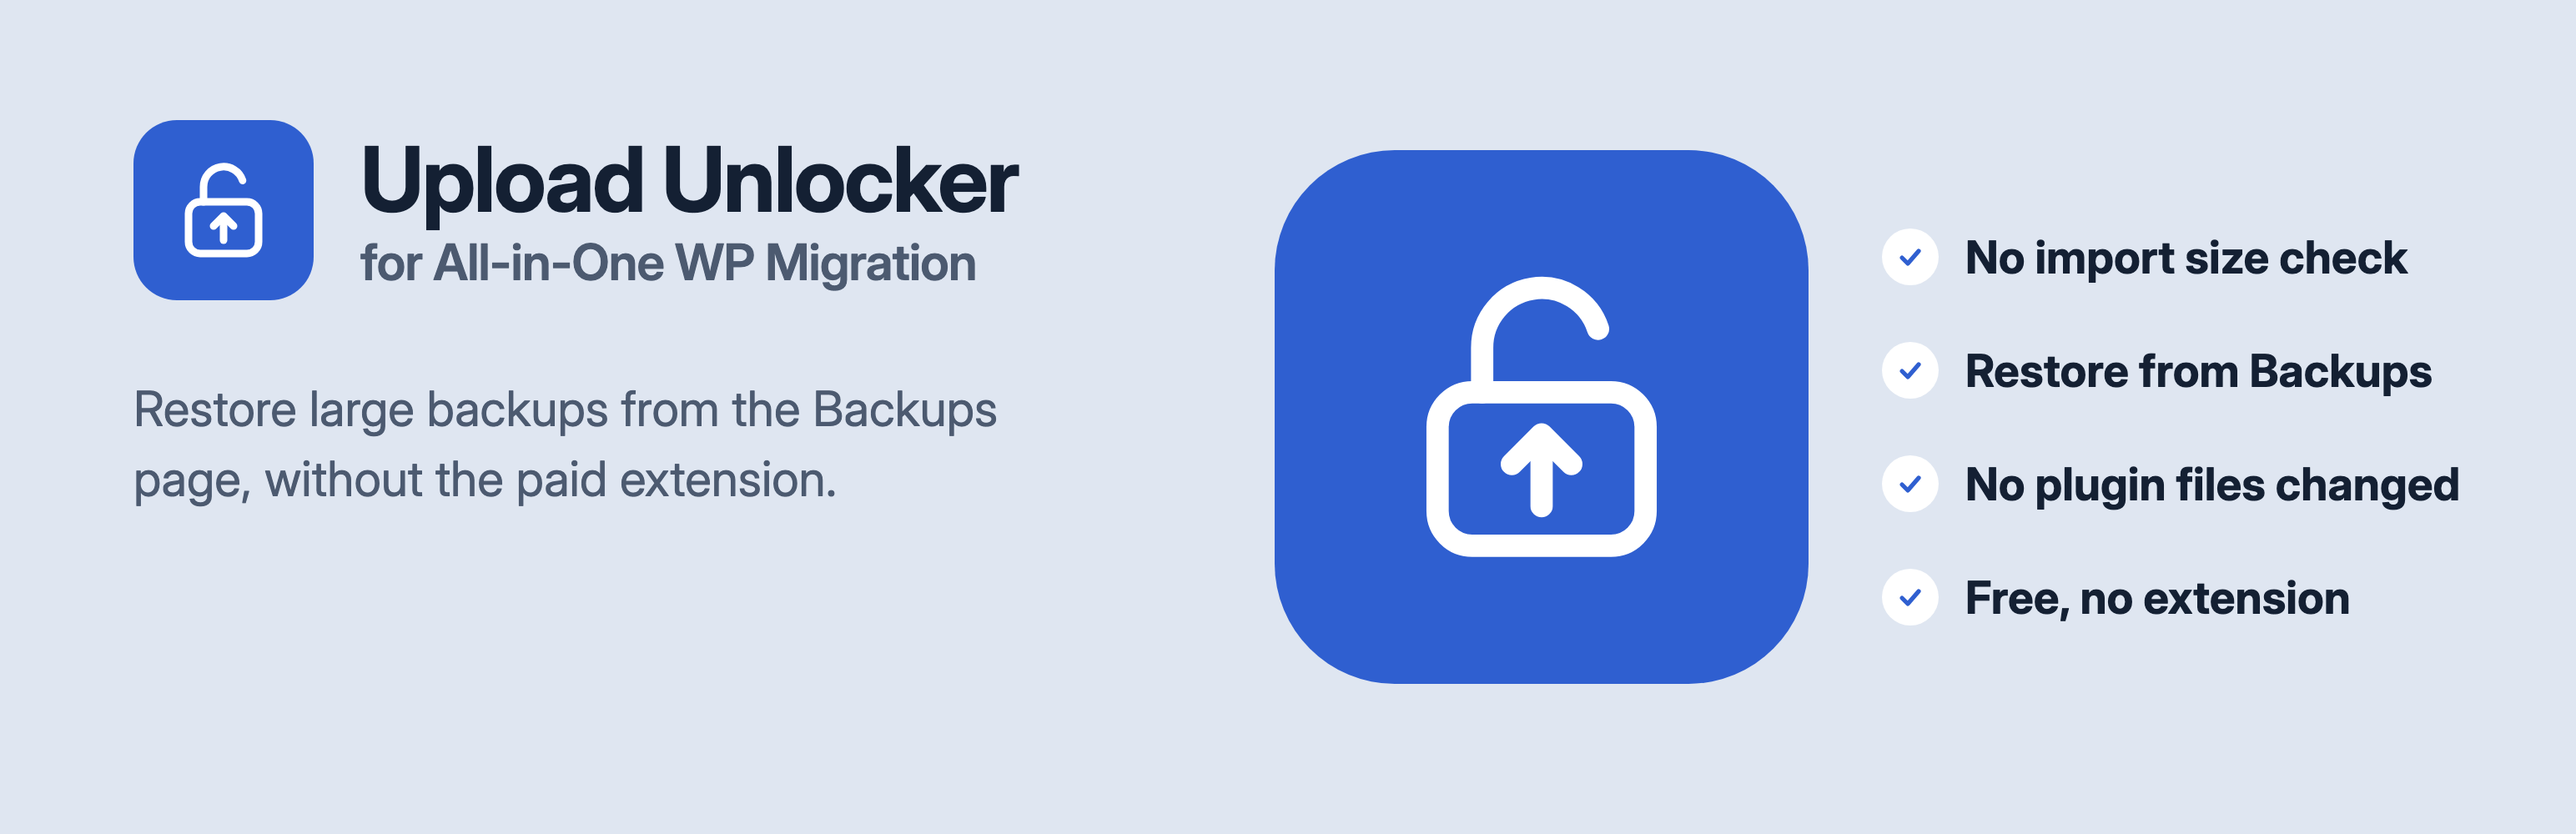
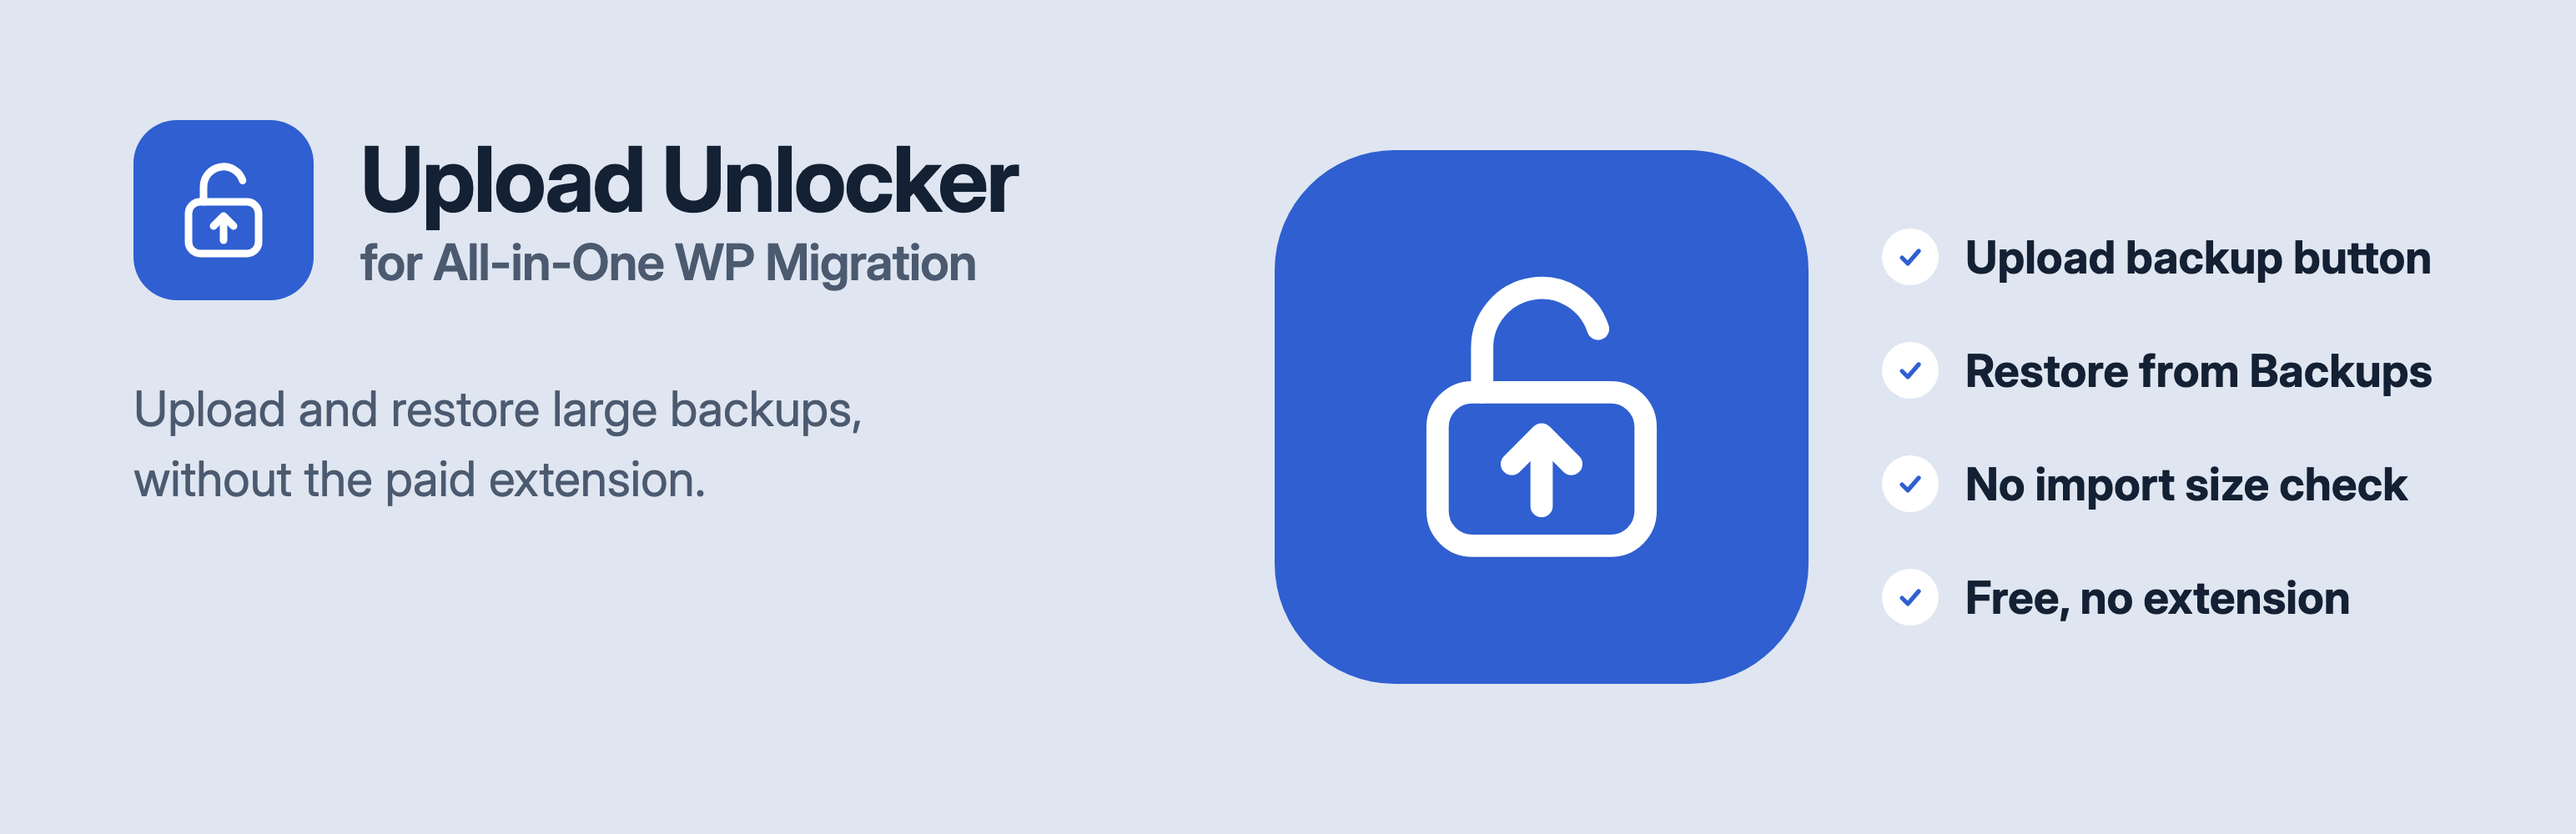
Docs lead with restoring large backups for search
The README title and intro now say what the plugin does in the words
people search for: restore a large All-in-One WP Migration backup for
free, without the Unlimited Extension, SFTP or php.ini edits. Adds a
four-step usage section near the top, FAQ answers on where uploaded
backups go and who can upload, and a note that the code snippet leaves
out the Upload backup button. The banner lists the button.

diff --git a/README.md b/README.md
@@ -1,8 +1,8 @@
-# Upload Unlocker for All in All Migration
+# Upload Unlocker: restore large All-in-One WP Migration backups for free
 
-![Upload Unlocker: no import size check, Restore from Backups, no plugin files changed, free](.github/assets/banner.png)
+![Upload Unlocker for All in All Migration: Upload backup button, Restore from Backups, no import size check, free](.github/assets/banner.png)
 
-Adds an Upload backup button and enables Restore on the [All-in-One WP Migration](https://wordpress.org/plugins/all-in-one-wp-migration/) Backups page, so you can restore a backup of any size without the paid extension or SFTP. It also removes the import size check on the Import page. No migration plugin files are modified.
+Upload Unlocker for All in All Migration is a free WordPress plugin for [All-in-One WP Migration](https://wordpress.org/plugins/all-in-one-wp-migration/). It lets you import and restore a `.wpress` backup that's bigger than your server's upload limit, without the paid Unlimited Extension, without SFTP, and without editing php.ini. You upload the backup from the Backups page in small pieces, then click Restore. No All-in-One WP Migration files are changed.
 
 [![Version 1.1.0](https://img.shields.io/badge/version-1.1.0-blue)](readme.txt)
 [![Tested up to WordPress 7.1](https://img.shields.io/badge/WordPress-tested%207.1-blue)](https://wordpress.org/download/)
@@ -10,6 +10,15 @@ Adds an Upload backup button and enables Restore on the [All-in-One WP Migration
 [![License: GPLv2 or later](https://img.shields.io/badge/license-GPLv2%20or%20later-blue)](LICENSE)
 
 ![The Import page with Upload Unlocker active, showing Maximum upload file size: Unlimited](.github/preview.png)
+
+## Restore a backup bigger than your upload limit
+
+1. Install and activate Upload Unlocker next to All-in-One WP Migration.
+2. Go to **All-in-One WP Migration > Backups** and click **Upload backup**.
+3. Choose your `.wpress` file and keep the page open. It shows the percent uploaded, then reloads with the backup in the list.
+4. Click **Restore** next to the backup and confirm.
+
+A backup under your server's limit still imports from **All-in-One WP Migration > Import** as usual.
 
 ## What It Does
 
@@ -29,6 +38,10 @@ On the Import page, the plugin lifts the JavaScript check that compares the file
 - `upload_size_limit` filter
 - `wp_add_inline_script()`
 - `wp_raise_memory_limit()`
+- the `ai1wm_backups_left_end` action, for the Upload backup button
+- the `wp_ajax_aiam_upload_chunk` action, which saves each uploaded piece
+
+The upload endpoint checks a nonce and the same permission as the Backups page on every request, accepts only `.wpress` file names, writes only to the backups folder, and never overwrites a backup that's already there.
 
 No migration plugin files are touched. Everything is scoped to migration admin screens only.
 
@@ -36,7 +49,7 @@ No migration plugin files are touched. Everything is scoped to migration admin s
 
 The free All-in-One WP Migration plugin sends the whole backup in one request from the Import page. This plugin can't change your server's `post_max_size` or `upload_max_filesize`, so a backup bigger than either one still fails on the Import page, even though it says Unlimited.
 
-For a large backup, go to **All-in-One WP Migration > Backups**, click **Upload backup**, and choose the `.wpress` file. When the page reloads with the backup in the list, click **Restore**. The server needs to accept uploads of at least 1 MB. You can also copy the file into `wp-content/ai1wm-backups` with SFTP, or raise both PHP limits above the backup size so the Import page works.
+For a large backup, use the Upload backup button on the Backups page, as in the steps above. The server needs to accept uploads of at least 1 MB. You can also copy the file into `wp-content/ai1wm-backups` with SFTP, or raise both PHP limits above the backup size so the Import page works.
 
 Tested on October 30, 2026 with WordPress 7.1.4, PHP 8.3, All-in-One WP Migration 7.113, an 8 MB server limit, and a 36 MB backup. The Import page failed, and the Upload backup button plus Restore brought the whole site across. The full walkthrough is in [Increase the All-in-One WP Migration upload limit for free](https://shameemreza.com/increase-upload-limit-for-all-in-one-wp-migration-plugin/).
 
@@ -57,7 +70,7 @@ Tested on October 30, 2026 with WordPress 7.1.4, PHP 8.3, All-in-One WP Migratio
 
 ### As a Code Snippet
 
-If you prefer not to install a plugin, add this to your theme's `functions.php` or use a code-snippets plugin like [SnipDrop](https://github.com/shameemreza/snipdrop):
+If you prefer not to install a plugin, add this to your theme's `functions.php` or use a code-snippets plugin like [SnipDrop](https://github.com/shameemreza/snipdrop). The snippet removes the size check, enables Restore and raises memory. It doesn't include the Upload backup button, so you'd copy large backups into `wp-content/ai1wm-backups` with SFTP:
 
 <details>
 <summary>Show snippet</summary>
@@ -112,6 +125,14 @@ add_action( 'admin_init', function () {
 **Will this work if my hosting has a low `upload_max_filesize`?**
 
 On the Backups page, yes. Upload backup sends the file in pieces that fit under your limits, and Restore reads it from disk. The server needs to accept uploads of at least 1 MB. On the Import page, no. The free All-in-One WP Migration plugin sends the whole file in one request, so a backup over `upload_max_filesize` or `post_max_size` fails there.
+
+**Where do uploaded backups go?**
+
+Into `wp-content/ai1wm-backups`, the same folder All-in-One WP Migration uses for Create backup. They stay in the list after a restore, so delete them there when you no longer need them.
+
+**Who can upload backups?**
+
+Only users All-in-One WP Migration lets import a site: administrators on a single site, and super admins on multisite.
 
 **Do I still need to change php.ini or .htaccess?**
 
